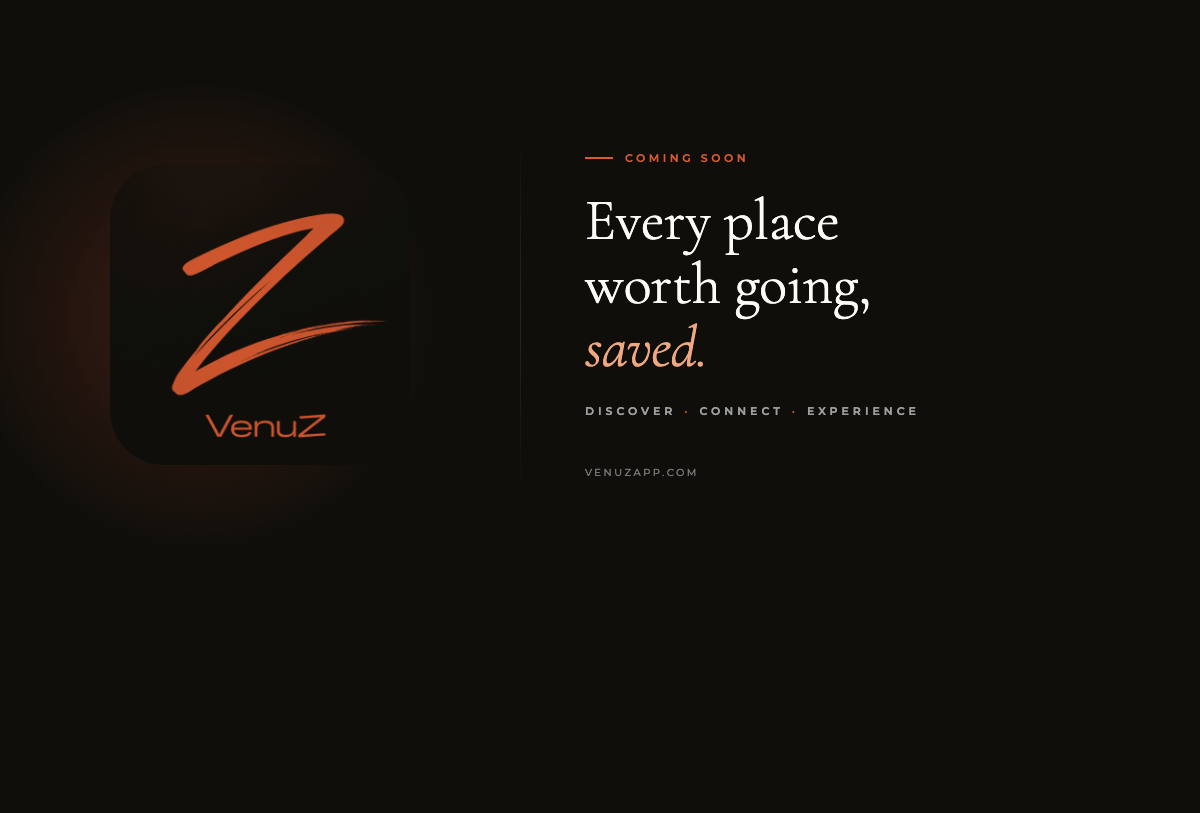
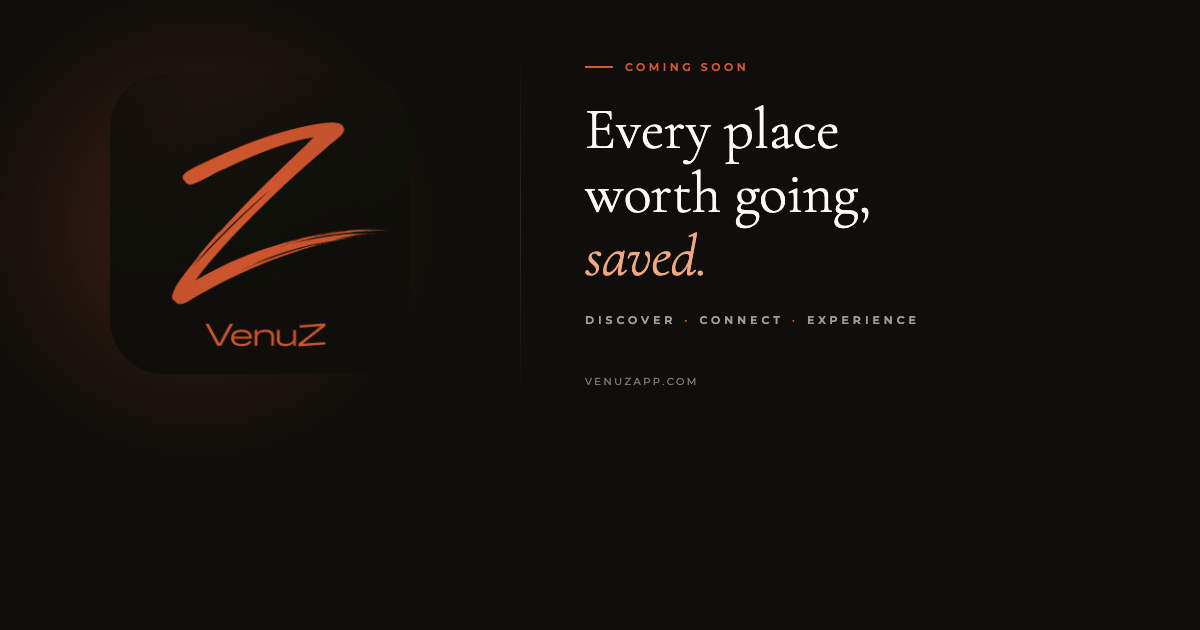
Landing page polish: nav, meta, OG image, pricing badges
- Hide Sign In from nav (shown only for authenticated beta users)
- Update meta title, description, og:title/description, twitter:title/description for NYC focus
- Crop OG image to 1200×630 (was 1200×813)
- Add "coming soon" badges to Instagram saves, TikTok bookmarks (Pro) and AI recommendations (VenuZ+)
- Replace Accra floating pills and city badge with NYC content

diff --git a/index.html b/index.html
@@ -3,10 +3,10 @@
 <head>
 <meta charset="UTF-8">
 <meta name="viewport" content="width=device-width, initial-scale=1.0">
-<title>VenuZ — Every place worth going, saved.</title>
-<meta name="description" content="VenuZ is the app for saving and discovering places worth going. Restaurants, bars, spas, beaches, markets, hotels, lounges — and anywhere else life takes you.">
-<meta property="og:title" content="VenuZ — Every place worth going, saved.">
-<meta property="og:description" content="Stop losing places in your DMs. VenuZ is your organized, vibe-tagged wishlist for everywhere worth going.">
+<title>VenuZ — Every place worth going, saved. | NYC</title>
+<meta name="description" content="Stop losing places in your DMs. VenuZ is your organized, vibe-tagged wishlist for every restaurant, bar, spa, beach, hookah lounge and more.">
+<meta property="og:title" content="VenuZ — Every place worth going, saved. | NYC">
+<meta property="og:description" content="Stop losing places in your DMs. VenuZ is your organized, vibe-tagged wishlist for every restaurant, bar, spa, beach, hookah lounge and more.">
 <meta property="og:url" content="https://venuzapp.com">
 <meta property="og:type" content="website">
 <meta property="og:site_name" content="VenuZ">
@@ -15,8 +15,8 @@
 <meta property="og:image:height" content="630">
 <meta name="twitter:card" content="summary_large_image">
 <meta name="twitter:site" content="@VenuzApp">
-<meta name="twitter:title" content="VenuZ — Every place worth going, saved.">
-<meta name="twitter:description" content="Stop losing places in your DMs. VenuZ is your organized, vibe-tagged wishlist for everywhere worth going.">
+<meta name="twitter:title" content="VenuZ — Every place worth going, saved. | NYC">
+<meta name="twitter:description" content="Stop losing places in your DMs. VenuZ is your organized, vibe-tagged wishlist for every restaurant, bar, spa, beach, hookah lounge and more.">
 <meta name="twitter:image" content="https://venuzapp.com/assets/og-image.png">
 <link rel="manifest" href="/manifest.json">
 <link rel="icon" type="image/x-icon" href="/favicon.ico">
@@ -82,6 +82,7 @@ nav{
   font-size:10px;font-weight:600;letter-spacing:1.5px;
   text-transform:uppercase;color:rgba(255,255,255,0.5);
   text-decoration:none;transition:color 0.2s;
+  display:none;
 }
 .nav-signin:hover{color:var(--warm-white)}
 
@@ -580,7 +581,8 @@ nav{
 .pricing-annual{font-size:9px;color:var(--muted);margin-bottom:20px}
 .pricing-divider{height:1px;background:rgba(255,255,255,0.08);margin-bottom:20px}
 .pricing-features{list-style:none;display:flex;flex-direction:column;gap:9px}
-.pricing-features li{font-size:10px;color:rgba(255,255,255,0.55);display:flex;align-items:flex-start;gap:8px;line-height:1.5}
+.pricing-features li{font-size:10px;color:rgba(255,255,255,0.55);display:flex;align-items:center;gap:8px;line-height:1.5}
+.coming-soon{font-size:8px;font-weight:500;letter-spacing:0.5px;color:var(--muted);opacity:0.75;white-space:nowrap;flex-shrink:0}
 .pricing-features li::before{content:'→';color:var(--terracotta);flex-shrink:0}
 
 /* ─── CITY REQUEST ─── */
@@ -678,9 +680,9 @@ footer{padding:24px 40px;border-top:1px solid rgba(255,255,255,0.06);display:fle
     <div class="pill">🥩 Don Angie · West Village</div>
     <div class="pill">🍹 Employees Only · NYC</div>
     <div class="pill">🧖 Great Jones Spa · NoHo</div>
-    <div class="pill">🌅 Rooftop bar · Accra</div>
+    <div class="pill">🌅 Westlight · Williamsburg</div>
     <div class="pill">☕ Devoción · Williamsburg</div>
-    <div class="pill">🎭 Labadi Beach · Ghana</div>
+    <div class="pill">💆 Aire Ancient Baths · Tribeca</div>
     <div class="pill">💎 Hidden gem · Brooklyn</div>
     <div class="pill">🥂 Date night · Manhattan</div>
   </div>
@@ -705,7 +707,6 @@ footer{padding:24px 40px;border-top:1px solid rgba(255,255,255,0.06);display:fle
 
   <div class="cities">
     <div class="city-badge active">📍 New York City</div>
-    <div class="city-badge active">📍 Accra, Ghana</div>
   </div>
 </section>
 
@@ -984,8 +985,8 @@ footer{padding:24px 40px;border-top:1px solid rgba(255,255,255,0.06);display:fle
         <ul class="pricing-features">
           <li>Everything in Free</li>
           <li>Import from Google Maps</li>
-          <li>Import from Instagram saves</li>
-          <li>Import from TikTok bookmarks</li>
+          <li>Import from Instagram saves <span class="coming-soon">· coming soon</span></li>
+          <li>Import from TikTok bookmarks <span class="coming-soon">· coming soon</span></li>
           <li>Unlimited saved places</li>
         </ul>
       </div>
@@ -998,7 +999,7 @@ footer{padding:24px 40px;border-top:1px solid rgba(255,255,255,0.06);display:fle
           <li>Everything in Pro</li>
           <li>Plan a Night Out — group voting</li>
           <li>Shared wishlists</li>
-          <li>AI place recommendations</li>
+          <li>AI place recommendations <span class="coming-soon">· coming soon</span></li>
           <li>Priority access to new features</li>
         </ul>
       </div>
@@ -1110,6 +1111,7 @@ document.getElementById('city-input').addEventListener('keypress', function(e) {
       signinLink.textContent = 'Open App →';
       signinLink.href = '/app/dashboard.html';
       signinLink.style.color = 'var(--terracotta)';
+      signinLink.style.display = 'inline';
     }
     if (joinBtn) joinBtn.style.display = 'none';
   }
